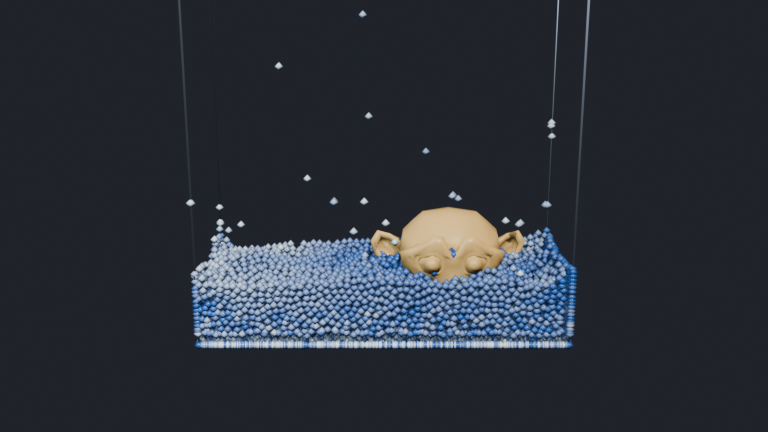
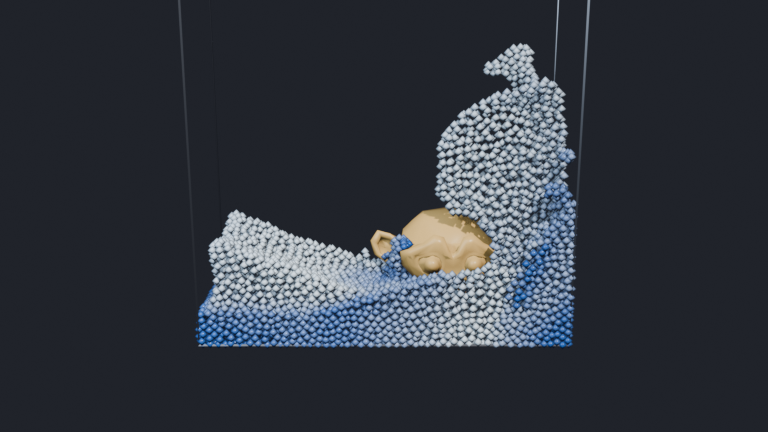
Fluid example: settles, and particles never cross the obstacle
- Walls, floor and obstacle act as mirrors: a particle near one has its
  reflection as a neighbor and is pushed away. Before, nothing lifted a
  particle off the floor, and a quarter of the fluid ended up crushed into
  a sliding sheet at z=0.
- 6 substeps of 0.008 s instead of 3 of 0.016 s (same time per frame): the
  relaxation overshot and the fluid jittered forever.
- Obstacle collision by ray cast from the previous position: a particle
  stops on the side it came from and slides along the face. No more side
  guessing from a triangle normal, which snapped particles through the
  mesh and threw them at up to 8 m/s. Works on open meshes.

Mean speed at frame 300: 0.70 -> 0.012 m/s. New timings and preview image.

diff --git a/examples/src/fluid/relax.py b/examples/src/fluid/relax.py
@@ -2,7 +2,7 @@
 # relaxation), keep them in the tank and out of the obstacle (the mesh on Input 1), and derive
 # the velocity from how far they moved.
 h = param("radius", 0.1)
-dt = param("delta_time", 0.016)
+dt = param("delta_time", 0.008)
 @previous: vec3                    # written by predict.py; say its type, or it reads as a float
 p = @position
 move = vec3(0, 0, 0)
@@ -24,21 +24,72 @@ for j in nearby_points(0, p, h, 40):
     w: vec3 = point_attr(0, "velocity", j)
     blur += w * t
     weight += t
+# The mirrored neighbors behind the walls, the floor and the obstacle (see density.py) push
+# the particle away from them.
+def mirror_push(d, away: vec3, h, pr, npr, dt):
+    t = max(1 - 2 * d / h, 0.0)
+    return away * (dt * dt * (pr * t + npr * t * t) * 0.5)
+
+
+size = param("tank", (1.2, 0.45, 3.0))       # same as in density.py
+pr0 = @pressure
+npr0 = @near_pressure
+move += mirror_push(p.z, vec3(0, 0, 1), h, pr0, npr0, dt)
+move += mirror_push(size.x - p.x, vec3(-1, 0, 0), h, pr0, npr0, dt)
+move += mirror_push(p.x + size.x, vec3(1, 0, 0), h, pr0, npr0, dt)
+move += mirror_push(size.y - p.y, vec3(0, -1, 0), h, pr0, npr0, dt)
+move += mirror_push(p.y + size.y, vec3(0, 1, 0), h, pr0, npr0, dt)
+c = closest_point(1, p)
+if c.hit and c.distance > 0:
+    move += mirror_push(c.distance, (p - c.position) / c.distance, h, pr0, npr0, dt)
+
 # Never more than a fifth of the radius per substep: keeps it stable when it gets crowded.
 if length(move) > h * 0.2:
     move = normalize(move) * h * 0.2
 p += move
 
-# Obstacle: particles that went just inside the mesh on Input 1 go back to its surface.
-c = closest_point(1, p)
-if c.hit and c.distance < h and dot(p - c.position, c.normal) < 0:
-    p = c.position + c.normal * 0.005
-
 # The tank.
-size = param("tank", (1.2, 0.45, 3.0))
 p.x = clamp(p.x, -size.x, size.x)
 p.y = clamp(p.y, -size.y, size.y)
 p.z = clamp(p.z, 0.0, size.z)
+
+# Obstacle (the mesh on Input 1). A particle never crosses its surface: if the move from where
+# it was (outside) to p goes through a face, it stops on the side it came from and only slides
+# along the face. This works for open meshes too, and doesn't guess the side from a normal.
+margin = param("obstacle_margin", 0.02)
+step = p - @previous
+travel = length(step)
+if travel > 0:
+    hit = ray_cast(1, @previous, step, travel + margin)
+    if hit.hit:
+        n = hit.normal
+        if dot(@previous - hit.position, n) < 0:
+            n = -n                          # the face's side the particle came from
+        stop = hit.position + n * margin
+        rest = p - hit.position
+        slide = rest - n * dot(rest, n)
+        # Sliding mustn't cross another face either (in a crease): then it just stops.
+        if length(slide) > 0 and ray_cast(1, stop, slide, length(slide) + margin).hit:
+            slide = vec3(0, 0, 0)
+        p = stop + slide
+# Keep a thin gap to the surface, pushing away from the closest point (always outward, since
+# the particle is on the outside).
+c = closest_point(1, p)
+if c.hit and c.distance < margin and c.distance > 0:
+    p = c.position + (p - c.position) / c.distance * margin
+
+# The tank again, in case the obstacle pushed a particle out of it.
+p.x = clamp(p.x, -size.x, size.x)
+p.y = clamp(p.y, -size.y, size.y)
+p.z = clamp(p.z, 0.0, size.z)
+# Last check: if the whole move still crosses a face (pushed in a crease or against the tank),
+# the particle stops just before it. Everything before the first hit is outside.
+step = p - @previous
+travel = length(step)
+if travel > 0:
+    last = ray_cast(1, @previous, step, travel)
+    if last.hit:
+        p = @previous + step / travel * max(last.distance - margin * 0.5, 0.0)
 
 v = (p - @previous) / dt
 # Viscosity (XSPH): lean toward the neighbors' average velocity.

diff --git a/examples/src/fluid/density.py b/examples/src/fluid/density.py
@@ -1,13 +1,33 @@
 # Fluid, step 3 of 4 (Run Over: Points): how crowded each particle is, and its pressure.
 h = param("radius", 0.1)
+p = @position
 density = 0.0
 near = 0.0
-for j in nearby_points(0, @position, h, 40):
+for j in nearby_points(0, p, h, 40):
     if j == @index:
         continue
     q: vec3 = point_attr(0, "position", j)
-    t = 1 - distance(@position, q) / h
+    t = 1 - distance(p, q) / h
     density += t * t
     near += t * t * t
+
+
+# The tank walls, the floor and the obstacle count as fluid: each acts as a mirror, and a
+# particle near one has its reflection as a neighbor (relax.py pushes it away from it). Without
+# this, a particle on the floor only has neighbors above it, nothing ever lifts it, and the
+# bottom layer gets crushed into a sheet that never settles.
+def mirror(d, h):
+    t = max(1 - 2 * d / h, 0.0)
+    return vec2(t * t, t * t * t)
+
+
+size = param("tank", (1.2, 0.45, 3.0))       # same as in relax.py
+g = mirror(p.z, h) + mirror(size.x - p.x, h) + mirror(p.x + size.x, h)
+g += mirror(size.y - p.y, h) + mirror(p.y + size.y, h)
+c = closest_point(1, p)
+if c.hit:
+    g += mirror(c.distance, h)
+density += g.x
+near += g.y
 @pressure: float = param("stiffness", 20.0) * (density - param("rest_density", 3.0))
 @near_pressure: float = param("near_stiffness", 80.0) * near

diff --git a/examples/build_examples.py b/examples/build_examples.py
@@ -493,7 +493,7 @@ def fluid():
     info.inputs["Object"].default_value = monkey
     info.transform_space = "RELATIVE"
     sin, sout = t.sim_zone(250, 1500)
-    rin, rout = t.repeat_zone(450, 1300, 3)
+    rin, rout = t.repeat_zone(450, 1300, 6)
     rin.label = "Substeps"
     predict = t.toast("fluid/predict", (650, 0))
     density = t.toast("fluid/density", (870, 0))
@@ -522,7 +522,7 @@ def fluid():
         "Fluid: 11664 particles, position-based (double density relaxation). Press Play.",
         "",
         "seed.py     (Points)  a block of particles",
-        "In the Simulation Zone, 3 substeps (Repeat Zone) of three chained Toast nodes:",
+        "In the Simulation Zone, 6 substeps (Repeat Zone) of three chained Toast nodes:",
         "predict.py  (Points)  gravity, move ahead",
         "density.py  (Points)  crowding and pressure from nearby_points()",
         "relax.py    (Points)  push apart, collide with the Obstacle (Input 1) and the tank",

diff --git a/examples/src/fluid/predict.py b/examples/src/fluid/predict.py
@@ -1,6 +1,8 @@
 # Fluid, step 2 of 4 (Run Over: Points): apply gravity and move ahead (Clavet et al. 2005,
 # "Particle-based viscoelastic fluid simulation"). Remembers where each particle was.
-dt = param("delta_time", 0.016)
+# 6 substeps of 0.008 s per frame (the Repeat Zone). Fewer, longer steps make the relaxation
+# overshoot: the fluid jitters and never settles.
+dt = param("delta_time", 0.008)
 @previous: vec3 = @position
 @velocity += param("gravity", (0.0, 0.0, -9.8)) * dt
 @position += @velocity * dt

diff --git a/examples/README.md b/examples/README.md
@@ -11,7 +11,7 @@ try. The Toast code is in the files as texts, and in [`src/`](src) for reading h
 | [02_reaction_diffusion](02_reaction_diffusion.blend) | Gray-Scott patterns growing on a sphere | Repeat Zone inside a Simulation Zone (24 steps per frame), `point_neighbors`, `return` |
 | [03_hair](03_hair.blend) | 4000 hair strands hit by a moving ball | Run Over Curves, lists as per-strand buffers, `curve_points`, `set_point_attr`, `closest_point` on Input 1, `output()` as a selection (Run Over Faces) |
 | [04_differential_growth](04_differential_growth.blend) | A line that buckles into coral folds, written two ways side by side: one Geometry node, or a Points node for the heavy part + a Geometry node | Run Over Geometry in a Simulation Zone, rebuilding topology every step (`add_point`, `add_edge`, `remove_point`); splitting work between parallel and sequential nodes |
-| [05_fluid](05_fluid.blend) | A dam break around an obstacle | Three chained Toast nodes in substeps, position-based fluid, collisions with a mesh on Input 1 |
+| [05_fluid](05_fluid.blend) | A dam break around an obstacle | Three chained Toast nodes in substeps, position-based fluid, walls as mirrored neighbors, collisions with a mesh on Input 1 that particles never cross |
 | [06_mandelbulb](06_mandelbulb.blend) | A fractal ray-marched by 160000 points | Heavy per-element math, helpers, a library (`toast_lib.fractal`), `remove_point`, `output()` |
 | [07_tree](07_tree.blend) | A tree that grows with the timeline | Run Over Geometry building a whole tree, lists as a stack, quaternions, a library (`toast_lib.tree`), `set_point_attr` on new points |
 
@@ -37,7 +37,7 @@ included, measured with `run_examples.py` below. Default settings first, then sc
 | Hair | 4252 strands, 102000 points | 145 | 21237 strands, 510000 points | 208 |
 | Differential growth, one core | 12000 points x 4 steps | 9 to 50 | 21600 points x 16 steps | 129 |
 | Differential growth, all cores | 12000 points x 4 steps | 6 to 25 | 21600 points x 16 steps | 54 |
-| Fluid | 11664 particles x 3 substeps | 52 | 50000 particles x 3 substeps | 87 |
+| Fluid | 11664 particles x 6 substeps | 126 | 50000 particles x 6 substeps | 208 |
 | Mandelbulb | 400 x 400 rays | 31 | 1000 x 1000 rays | 195 |
 | Tree | 4373 points | 2 | depth 9: 131000 mesh points | 12 |
 
